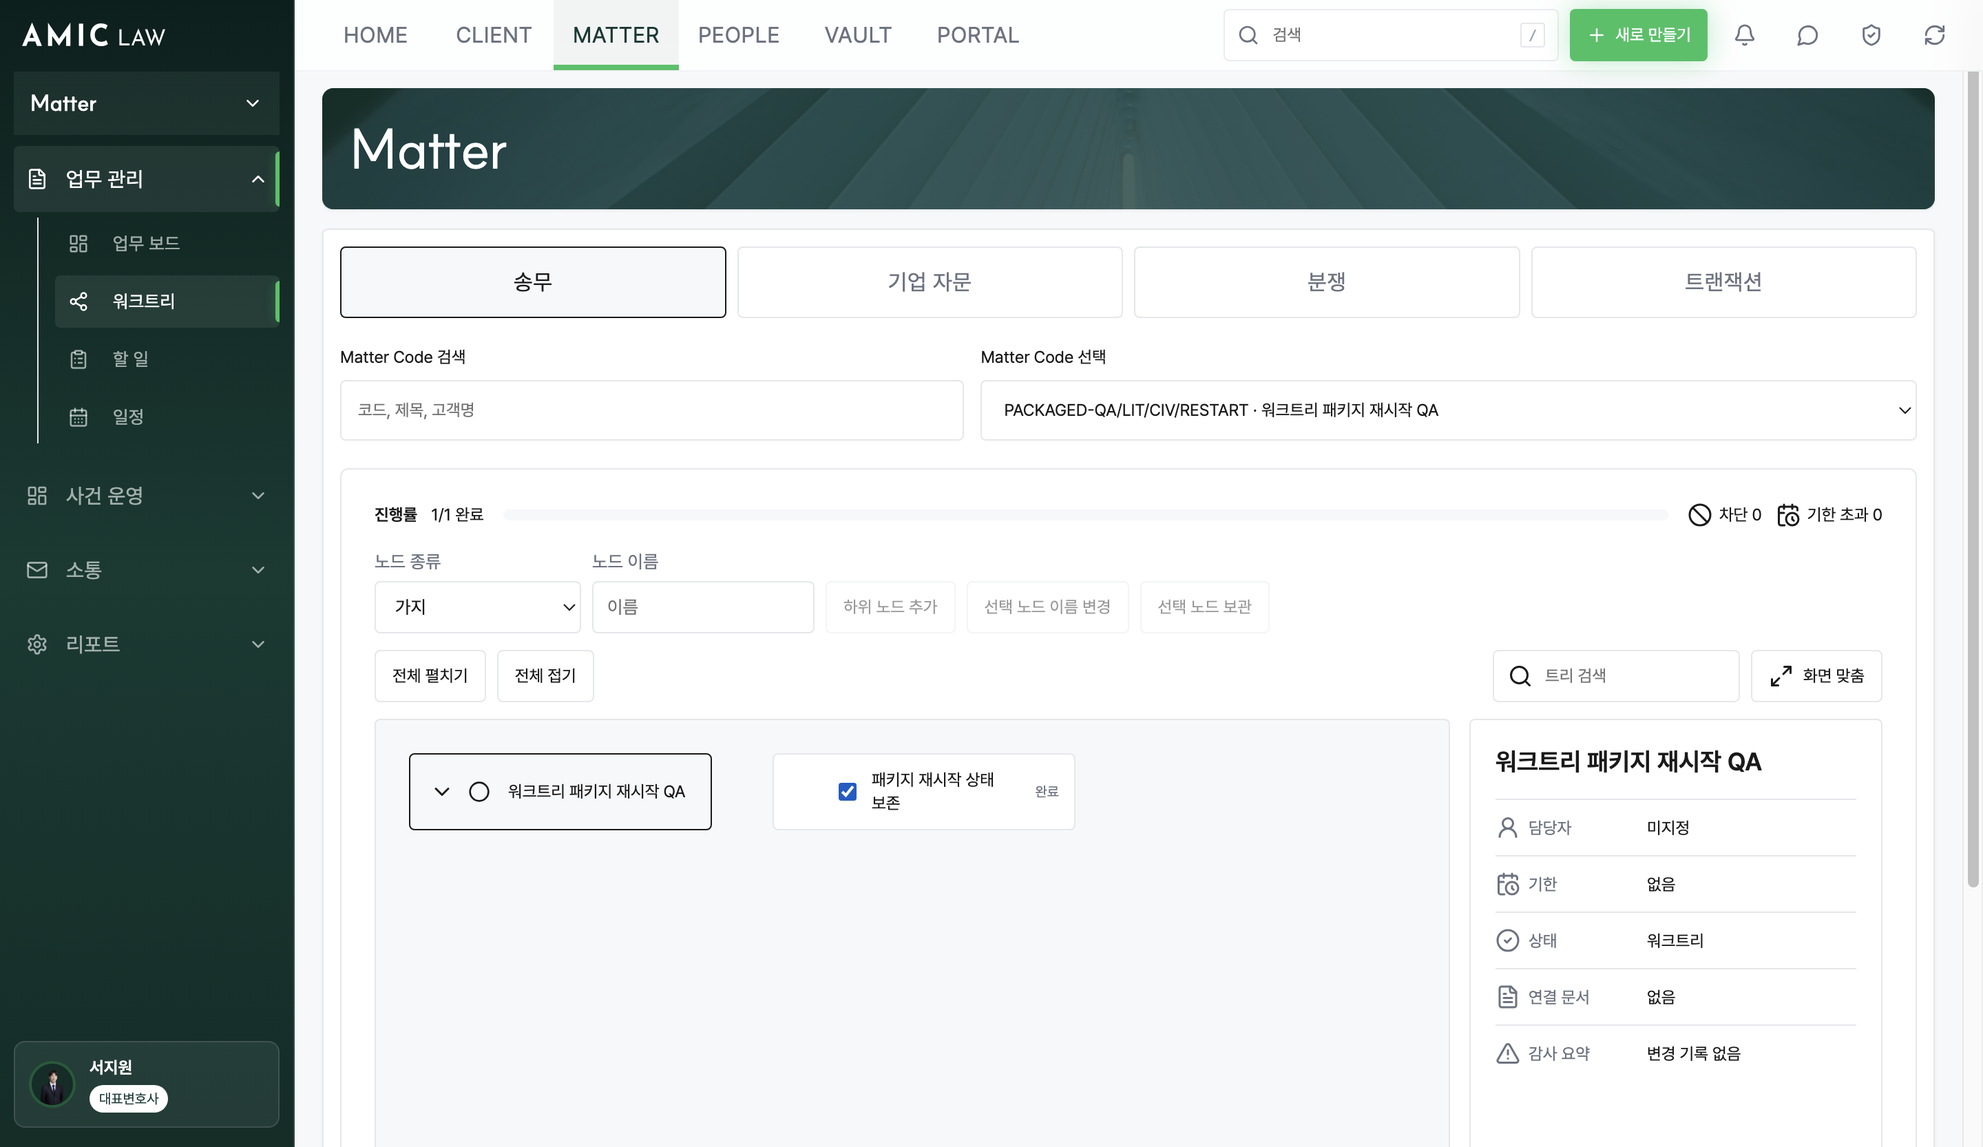
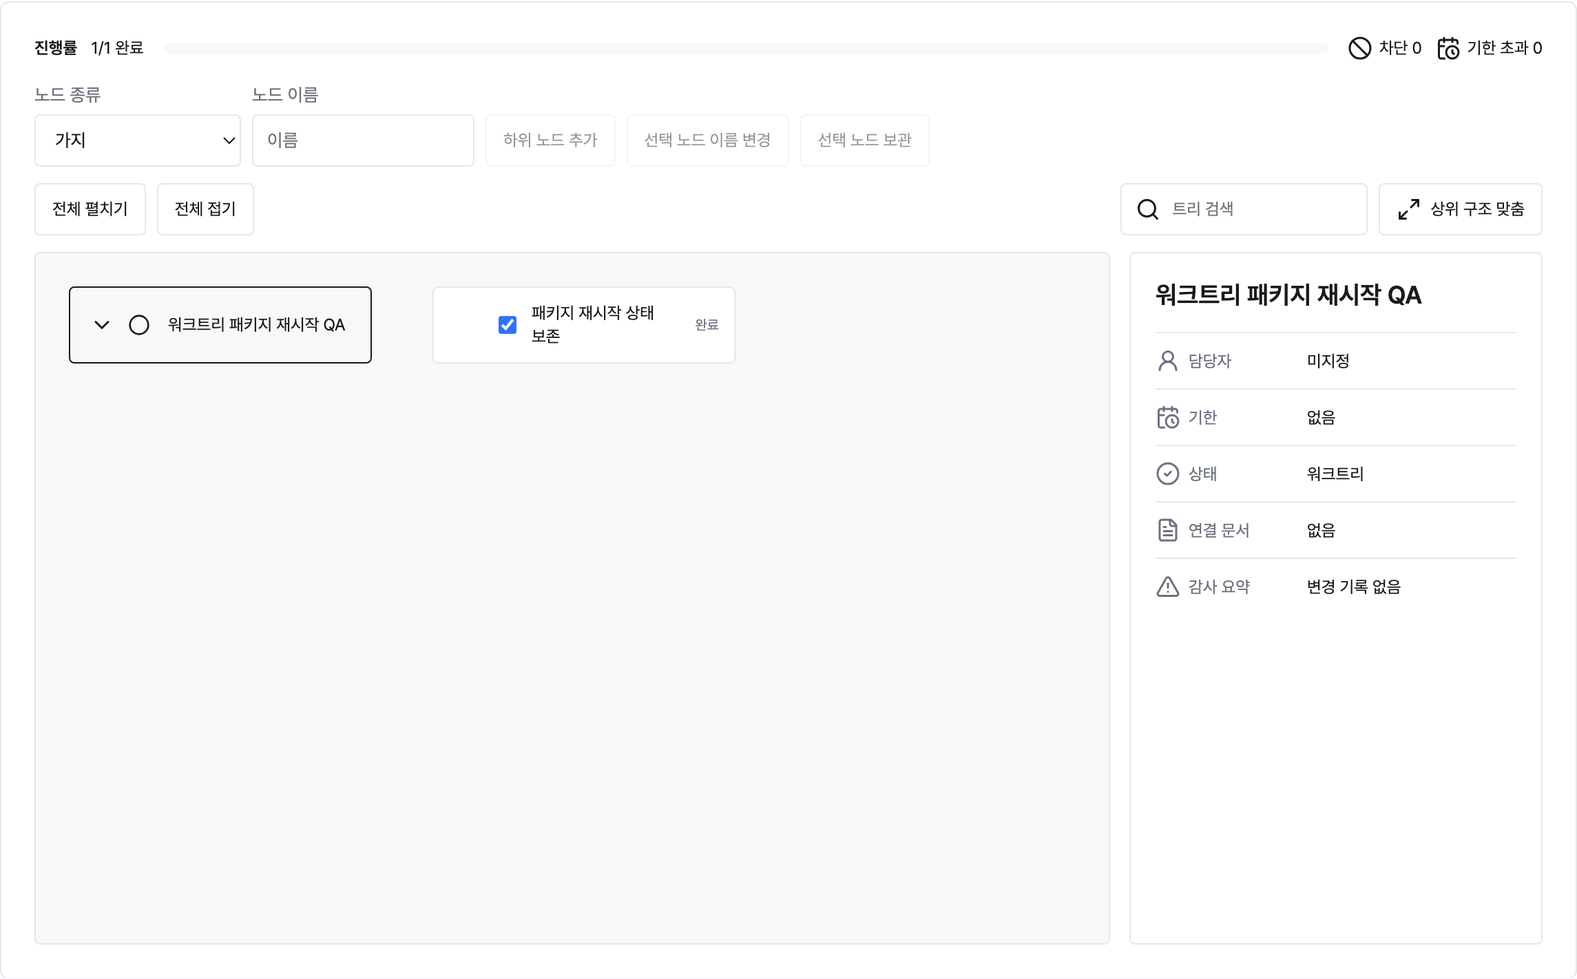
fix(worktree): enforce final runtime and UI boundaries

diff --git a/apps/web/src/components/MatterWorktreeSurface.jsx b/apps/web/src/components/MatterWorktreeSurface.jsx
@@ -16,7 +16,7 @@ import {
   reopenMatterWorktreeTask,
   unblockMatterWorktreeTask,
 } from "../data/apiClient.js";
-import { buildMatterWorktreeTree, createLatestWorktreeRequestSequence, flattenMatterWorktree, matterWorktreeExpandableIds } from "./matterWorktreeTree.js";
+import { buildMatterWorktreeTree, createLatestWorktreeRequestSequence, flattenMatterWorktree, matterWorktreeExpandableIds, nextMatterWorktreeSortOrder } from "./matterWorktreeTree.js";
 
 const PRACTICE_AREAS = Object.freeze([
   Object.freeze({ id: "litigation", label: "송무" }),
@@ -82,7 +82,7 @@ function WorktreeNode({ node, level, expandedIds, selectedId, pendingTaskId, onS
   return (
     <div className="matter-worktree-branch">
       <div
-        className={`matter-worktree-node ${selectedId === node.node_id ? "selected" : ""} ${task ? "task" : "branch"}`}
+        className={`matter-worktree-node ${selectedId === node.node_id ? "selected" : ""} ${task ? "task" : "branch"} ${node.node_type === "virtual_branch" ? "virtual" : ""}`}
         role="treeitem"
         aria-level={level}
         aria-selected={selectedId === node.node_id}
@@ -110,6 +110,7 @@ function WorktreeNode({ node, level, expandedIds, selectedId, pendingTaskId, onS
         ) : <Circle aria-hidden="true" className="matter-worktree-node-icon" />}
         <span className="matter-worktree-node-title">{node.title}</span>
         {task?.status && <small>{WORKTREE_STATUS_LABELS[task.status] ?? task.status}</small>}
+        {node.node_type === "virtual_branch" && <small>자동 분류</small>}
       </div>
       {hasChildren && expanded && (
         <div className="matter-worktree-children" role="group">
@@ -374,8 +375,9 @@ export function MatterWorktreeSurface({ matters = [], liveCtx = "allow" }) {
           node_type: nodeType,
           parent_node_id: parent?.node_id ?? null,
           title: nodeTitle.trim(),
-          sort_order: parent?.children?.length ?? tree?.children?.length ?? 0,
-          ...(nodeType === "task" ? { task_id: taskId.trim() } : {}),
+          sort_order: nextMatterWorktreeSortOrder(parent?.children ?? tree?.children ?? []),
+          status: "active",
+          task_id: nodeType === "task" ? taskId.trim() : null,
         },
       }),
     });
@@ -505,7 +507,9 @@ export function MatterWorktreeSurface({ matters = [], liveCtx = "allow" }) {
   }
 
   function fitCanvas() {
-    canvasRef.current?.scrollTo({ left: 0, top: 0, behavior: "smooth" });
+    setExpandedIds(new Set(tree ? [tree.node_id] : []));
+    if (tree?.node_id) setSelectedNodeId(tree.node_id);
+    requestAnimationFrame(() => canvasRef.current?.scrollTo({ left: 0, top: 0, behavior: "smooth" }));
   }
 
   function renderWorktreeState() {
@@ -531,7 +535,7 @@ export function MatterWorktreeSurface({ matters = [], liveCtx = "allow" }) {
             <button type="button" onClick={() => setExpandedIds(new Set(matterWorktreeExpandableIds(tree)))}>전체 펼치기</button>
             <button type="button" onClick={() => setExpandedIds(new Set(tree ? [tree.node_id] : []))}>전체 접기</button>
             <label><Search aria-hidden="true" /><span className="sr-only">트리 검색</span><input value={treeQuery} onChange={(event) => setTreeQuery(event.target.value)} onKeyDown={(event) => { if (event.key === "Enter") focusSearchResult(); }} placeholder="트리 검색" /></label>
-            <button type="button" onClick={fitCanvas}><Maximize2 aria-hidden="true" />화면 맞춤</button>
+            <button type="button" onClick={fitCanvas} title="상위 단계만 보이도록 하위 가지를 접습니다"><Maximize2 aria-hidden="true" />상위 구조 맞춤</button>
           </div>
           <div className="matter-worktree-workspace">
             <div className="matter-worktree-canvas" ref={canvasRef}>

diff --git a/apps/api/test/matter-worktree-api.test.js b/apps/api/test/matter-worktree-api.test.js
@@ -2,6 +2,7 @@ import assert from "node:assert/strict";
 import test from "node:test";
 import { createMatterRepository } from "../../../packages/matter/src/repository.js";
 import { createMatterRuntimeContext, handleMatterApiRequest } from "../src/matter-runtime-context.js";
+import { handleMatterWorktreeTemplateList } from "../src/matter-worktree-read-api.js";
 
 const tenantId = "tenant_wt_02_01";
 const matterId = "matter_wt_02_01";
@@ -26,7 +27,7 @@ function fixtures() {
     { model_type: "MatterWorktreeNode", node_id: "node_branch_wt_02_01", worktree_id: "worktree_wt_02_01", matter_id: matterId, tenant_id: tenantId, node_type: "branch", parent_node_id: null, title: "준비", sort_order: 0, status: "active", task_id: null, ...evidence },
     { model_type: "MatterWorktreeNode", node_id: "node_task_wt_02_01", worktree_id: "worktree_wt_02_01", matter_id: matterId, tenant_id: tenantId, node_type: "task", parent_node_id: "node_branch_wt_02_01", title: "연결 업무", sort_order: 0, status: "active", task_id: "task_linked_wt_02_01", ...evidence },
     { model_type: "MatterTask", task_id: "task_other_wt_02_01", matter_id: "matter_other", tenant_id: tenantId, title: "권한 밖 업무", status: "blocked", created_by: "user_other", ...evidence },
-    { model_type: "MatterWorktreeTemplate", template_id: "template-approved", tenant_id: tenantId, practice_area: "litigation", name: "송무 준비", status: "approved", version: 2, approval_ref: "approval", approved_by: "approver", approved_at: "2026-07-11T12:00:00.000Z", created_by: "author", created_at: "2026-07-11T12:00:00.000Z", updated_by: "approver", updated_at: "2026-07-11T12:00:00.000Z" },
+    { model_type: "MatterWorktreeTemplate", template_id: "template-approved", tenant_id: tenantId, practice_area: "litigation", name: "송무 준비", status: "approved", version: 2, approval_ref: "approval", approved_by: "jwsuh@amic.kr", approved_at: "2026-07-11T12:00:00.000Z", created_by: "author", created_at: "2026-07-11T12:00:00.000Z", updated_by: "jwsuh@amic.kr", updated_at: "2026-07-11T12:00:00.000Z" },
     { model_type: "MatterWorktreeTemplate", template_id: "template-draft", tenant_id: tenantId, practice_area: "litigation", name: "초안", status: "draft", version: 1, approval_ref: null, approved_by: null, approved_at: null, created_by: "author", created_at: "2026-07-11T12:00:00.000Z", updated_by: "author", updated_at: "2026-07-11T12:00:00.000Z" },
   ];
 }
@@ -59,6 +60,21 @@ test("Worktree template picker lists only approved templates for the Matter prac
 
   assert.equal(response.status, 200);
   assert.deepEqual(response.body.items, [{ template_id: "template-approved", name: "송무 준비", version: 2, practice_area: "litigation" }]);
+});
+
+test("Worktree template picker hides legacy approved records signed by another approver", () => {
+  const base = runtime().repository;
+  const repository = {
+    get: (ref) => base.get(ref),
+    list: (request) => request.model_type === "MatterWorktreeTemplate"
+      ? [{ ...fixtures().find(({ template_id }) => template_id === "template-approved"), approved_by: "other@example.com" }]
+      : base.list(request),
+  };
+
+  const response = handleMatterWorktreeTemplateList({ matterId, query, context: context(), requestId: "req-template-list-invalid-owner", runtime: { repository } });
+
+  assert.equal(response.status, 200);
+  assert.deepEqual(response.body.items, []);
 });
 
 test("WT-02-01 hides the Worktree and all counts from a non-member", async () => {

diff --git a/apps/api/test/matter-worktree-node-api.test.js b/apps/api/test/matter-worktree-node-api.test.js
@@ -70,6 +70,19 @@ test("WT-02-04 rejects archiving a branch with active descendants and retains Ma
   assert.equal(matterRuntime.repository.get({ tenant_id: tenantId, model_type: "MatterTask", id: "task_wt_02_03" }).status, "todo");
 });
 
+test("WT-02-04 permits bottom-up archive after every descendant is archived", async () => {
+  const matterRuntime = runtime();
+  await handleMatterApiRequest({ pathname: `/api/matters/${matterId}/worktree/nodes`, method: "POST", body: body("bottom-up-parent", { node_id: "parent", node_type: "branch", parent_node_id: null, title: "상위", sort_order: 0, status: "active", task_id: null }), context, requestId: "parent", runtime: matterRuntime });
+  await handleMatterApiRequest({ pathname: `/api/matters/${matterId}/worktree/nodes`, method: "POST", body: body("bottom-up-child", { node_id: "child", node_type: "branch", parent_node_id: "parent", title: "하위", sort_order: 0, status: "active", task_id: null }, { expected_version: 2 }), context, requestId: "child", runtime: matterRuntime });
+  const child = await handleMatterApiRequest({ pathname: `/api/matters/${matterId}/worktree/nodes/child`, method: "DELETE", body: body("archive-child", {}, { expected_version: 3 }), context, requestId: "archive-child", runtime: matterRuntime });
+
+  const parent = await handleMatterApiRequest({ pathname: `/api/matters/${matterId}/worktree/nodes/parent`, method: "DELETE", body: body("archive-parent-after-child", {}, { expected_version: 4 }), context, requestId: "archive-parent", runtime: matterRuntime });
+
+  assert.equal(child.status, 200);
+  assert.equal(parent.status, 200);
+  assert.equal(matterRuntime.repository.get({ tenant_id: tenantId, model_type: "MatterWorktreeNode", id: "parent" }).status, "archived");
+});
+
 test("WT-02-07 returns 409 and current version for stale node writes", async () => {
   const matterRuntime = runtime();
   await handleMatterApiRequest({ pathname: `/api/matters/${matterId}/worktree/nodes`, method: "POST", body: body("stale-create", { node_id: "branch", node_type: "branch", parent_node_id: null, title: "원본", sort_order: 0, status: "active", task_id: null }), context, requestId: "create", runtime: matterRuntime });

diff --git a/apps/web/src/styles.css b/apps/web/src/styles.css
@@ -2844,6 +2844,13 @@ kbd {
   font-weight: 400;
 }
 
+.matter-worktree-tools label:focus-within {
+  border-color: var(--am-accent);
+  outline: 3px solid color-mix(in srgb, var(--am-accent) 45%, transparent);
+  outline-offset: 2px;
+  box-shadow: inset 0 0 0 1px var(--am-accent);
+}
+
 .matter-worktree-workspace {
   display: grid;
   grid-template-columns: minmax(0, 1fr) minmax(260px, 300px);
@@ -2894,6 +2901,12 @@ kbd {
 .matter-worktree-node.selected {
   border-color: var(--am-accent);
   background: var(--am-surface-subtle);
+}
+
+.matter-worktree-node.virtual {
+  border-style: dashed;
+  border-color: var(--am-border-strong);
+  background: color-mix(in srgb, var(--am-surface-subtle) 72%, var(--am-accent) 8%);
 }
 
 .matter-worktree-node:focus-visible {
@@ -3136,6 +3149,19 @@ kbd {
 }
 
 @media (max-width: 480px) {
+  .top-axis-nav {
+    width: 100%;
+    overflow: visible;
+  }
+
+  .top-axis-item {
+    flex: 1 1 0;
+    min-width: 0;
+    padding: 0 3px;
+    font-size: 12px;
+    letter-spacing: 0;
+  }
+
   .matter-worktree-children {
     margin-left: 8px;
     padding-left: 8px;
@@ -7686,7 +7712,7 @@ html[data-theme="dark"] .public-preview {
   }
 }
 
-@media (max-width: 760px) {
+@media (max-width: 820px) {
   body {
     overflow: auto;
   }
@@ -13904,7 +13930,7 @@ table tbody *,
   }
 }
 
-@media (max-width: 760px) {
+@media (max-width: 820px) {
   .sidebar-group {
     min-width: max-content;
   }
@@ -13941,5 +13967,37 @@ table tbody *,
   html[data-skin="forest"] .page-canvas {
     padding-top: 0;
     overflow: visible;
+  }
+
+  html[data-skin="forest"] .top-axis-nav {
+    width: 100%;
+    overflow: visible;
+  }
+
+  html[data-skin="forest"] .top-axis-item {
+    flex: 1 1 0;
+    min-width: 0;
+    padding: 0 6px;
+    font-size: 14px;
+  }
+}
+
+@media (max-width: 480px) {
+  html[data-skin="forest"] .top-axis-item {
+    padding: 0 3px;
+    font-size: 12px;
+    letter-spacing: 0;
+  }
+
+  .sidebar-subnav {
+    display: grid;
+    grid-template-columns: repeat(4, minmax(0, 1fr));
+    width: 100%;
+  }
+
+  .sidebar-child {
+    min-width: 0;
+    padding-inline: 4px;
+    font-size: 12px;
   }
 }

diff --git a/apps/api/test/matter-worktree-create-api.test.js b/apps/api/test/matter-worktree-create-api.test.js
@@ -21,7 +21,7 @@ function records({ templateStatus } = {}) {
   if (!templateStatus) return base;
   const approved = templateStatus === "approved";
   return [...base,
-    { model_type: "MatterWorktreeTemplate", template_id: "template_wt_02_02", tenant_id: tenantId, practice_area: "litigation", name: "[QA] 송무 템플릿", status: templateStatus, version: 1, approval_ref: approved ? "approval_wt_02_02" : null, approved_by: approved ? "qa_approver" : null, approved_at: approved ? occurredAt : null, created_by: "qa_author", created_at: occurredAt, updated_by: "qa_author", updated_at: occurredAt },
+    { model_type: "MatterWorktreeTemplate", template_id: "template_wt_02_02", tenant_id: tenantId, practice_area: "litigation", name: "[QA] 송무 템플릿", status: templateStatus, version: 1, approval_ref: approved ? "approval_wt_02_02" : null, approved_by: approved ? "jwsuh@amic.kr" : null, approved_at: approved ? occurredAt : null, created_by: "qa_author", created_at: occurredAt, updated_by: "qa_author", updated_at: occurredAt },
     { model_type: "MatterWorktreeTemplateNode", template_node_id: "template_branch_wt_02_02", template_id: "template_wt_02_02", tenant_id: tenantId, node_type: "branch", parent_template_node_id: null, title: "준비", sort_order: 0, status: "active" },
     { model_type: "MatterWorktreeTemplateNode", template_node_id: "template_task_wt_02_02", template_id: "template_wt_02_02", tenant_id: tenantId, node_type: "task", parent_template_node_id: "template_branch_wt_02_02", title: "기록 검토", sort_order: 0, status: "active" },
   ];

diff --git a/packages/matter/test/worktree-template-snapshot.test.js b/packages/matter/test/worktree-template-snapshot.test.js
@@ -15,7 +15,7 @@ function template(status = "approved") {
     status,
     version: 1,
     approval_ref: approved ? "approval_qa_wt_01_07" : null,
-    approved_by: approved ? "user_qa_approver" : null,
+    approved_by: approved ? "jwsuh@amic.kr" : null,
     approved_at: approved ? timestamp : null,
     created_by: "user_wt_01_07",
     created_at: timestamp,
@@ -112,6 +112,18 @@ test("WT-01-07 rejects draft templates without creating Worktree records", async
   assert.throws(applyDraft, (error) => error.code === "WORKTREE_TEMPLATE_NOT_APPROVED");
   assert.equal(repository.list({ tenant_id: "tenant_wt_01_07", model_type: "MatterWorktree" }).length, 0);
   assert.equal(repository.list({ tenant_id: "tenant_wt_01_07", model_type: "MatterTask" }).length, 0);
+});
+
+test("WT-01-07 rejects approved templates signed by a different approver", async () => {
+  const { applyMatterWorktreeTemplate } = await import("../src/worktree-template-snapshot.js");
+  const repository = {
+    get: () => ({ ...template(), approved_by: "other@example.com" }),
+    list: () => [],
+  };
+
+  const applyMismatchedApproval = () => applyMatterWorktreeTemplate(repository, command());
+
+  assert.throws(applyMismatchedApproval, (error) => error.code === "WORKTREE_TEMPLATE_NOT_APPROVED");
 });
 
 test("WT-01-07 rejects cross-tenant template application without existence disclosure", async () => {

diff --git a/apps/api/src/matter-worktree-read-api.js b/apps/api/src/matter-worktree-read-api.js
@@ -1,6 +1,7 @@
 import { projectMatterWorktree } from "../../../packages/matter/src/worktree-projection.js";
 import { authorizeMatterWorktreeAccess, WORKTREE_READ_ROLES } from "./matter-worktree-authorization.js";
 import { classifyMatterPracticeArea } from "../../../packages/matter/src/practice-area.js";
+import { hasMatterWorktreeTemplateApproval } from "../../../packages/matter/src/worktree-template-model.js";
 
 function blocked(status, requestId, code, auditHintRef, uiState) {
   return {
@@ -66,7 +67,7 @@ export function handleMatterWorktreeTemplateList({ matterId, query = {}, context
   const practiceArea = classifyMatterPracticeArea(authorization.matter);
   const items = runtime.repository
     .list({ tenant_id: query.tenant_id, model_type: "MatterWorktreeTemplate" })
-    .filter((template) => template.status === "approved" && template.practice_area === practiceArea)
+    .filter((template) => template.status === "approved" && hasMatterWorktreeTemplateApproval(template) && template.practice_area === practiceArea)
     .map(({ template_id, name, version, practice_area }) => ({ template_id, name, version, practice_area }));
   return { status: 200, body: { request_id: requestId, outcome: "passed", items, safe_error_codes: [], audit_hint_ref: query.audit_hint_ref, count_leak_prevented: true, production_ready_claim: false } };
 }

diff --git a/apps/api/src/matter-worktree-write-api.js b/apps/api/src/matter-worktree-write-api.js
@@ -147,8 +147,9 @@ export function handleMatterWorktreeNodeArchive({ matterId, nodeId, body, contex
     const worktree = activeWorktree(runtime.repository, body.tenant_id, matterId);
     if (!worktree) throw new Error("active Worktree not found");
     const nodes = runtime.repository.list({ tenant_id: body.tenant_id, model_type: "MatterWorktreeNode", matter_id: matterId }).filter((node) => node.worktree_id === worktree.worktree_id);
-    if (!nodes.some((node) => node.node_id === nodeId)) throw new Error("Worktree node not found");
-    const archivedNodeIds = subtreeIds(nodes, nodeId);
+    const current = nodes.find((node) => node.node_id === nodeId);
+    if (!current || current.status !== "active") throw new Error("Active Worktree node not found");
+    const archivedNodeIds = subtreeIds(nodes.filter(({ status }) => status === "active"), nodeId);
     if (archivedNodeIds.length > 1) throw new Error("Active descendants must be archived before their parent");
     const input = command(body, matterId, requestId, { expected_version: body.expected_version ?? null });
     const result = executeWorktreeMutation(runtime.repository, { ...input, operation: "matter.worktree.node.archive", object_type: "MatterWorktreeNode", object_id: nodeId }, (transaction) => {

diff --git a/packages/matter/src/worktree-template-model.js b/packages/matter/src/worktree-template-model.js
@@ -1,13 +1,21 @@
 import { MATTER_WORKTREE_NODE_TYPES } from "./registry.js";
 import { createWorktreeBaseRecord } from "./worktree-model.js";
 
+export const MATTER_WORKTREE_TEMPLATE_APPROVER_ID = "jwsuh@amic.kr";
+
+export function hasMatterWorktreeTemplateApproval(input) {
+  return Boolean(input.approval_ref)
+    && input.approved_by === MATTER_WORKTREE_TEMPLATE_APPROVER_ID
+    && Boolean(input.approved_at);
+}
+
 export function createMatterWorktreeTemplate(input) {
   const base = createWorktreeBaseRecord("MatterWorktreeTemplate", input);
   if (!Number.isInteger(input.version) || input.version < 1) {
     throw new TypeError("MatterWorktreeTemplate version must be a positive integer");
   }
-  if (input.status === "approved" && ![input.approval_ref, input.approved_by, input.approved_at].every(Boolean)) {
-    throw new TypeError("MatterWorktreeTemplate approved template requires approval_ref, approved_by, approved_at");
+  if (input.status === "approved" && !hasMatterWorktreeTemplateApproval(input)) {
+    throw new TypeError(`MatterWorktreeTemplate approved template requires approval_ref, approved_by, approved_at; approved_by must match assigned approver ${MATTER_WORKTREE_TEMPLATE_APPROVER_ID}`);
   }
   return Object.freeze({
     ...base,

diff --git a/packages/matter/test/worktree-template-model.test.js b/packages/matter/test/worktree-template-model.test.js
@@ -69,13 +69,27 @@ test("WT-01-03 requires complete approval evidence for approved templates", asyn
     ...draftInput,
     status: "approved",
     approval_ref: "approval_qa_wt_01_03",
-    approved_by: "user_qa_template_approver",
+    approved_by: "jwsuh@amic.kr",
     approved_at: "2026-07-11T13:00:00.000Z",
   });
 
   // Then
   assert.throws(createWithoutEvidence, /approved template requires approval_ref, approved_by, approved_at/);
   assert.equal(approved.status, "approved");
+});
+
+test("approved Worktree templates reject an approver other than the assigned owner", async () => {
+  const { createMatterCoreRecord } = await import("../src/model.js");
+
+  const createWithWrongApprover = () => createMatterCoreRecord("MatterWorktreeTemplate", {
+    ...draftInput,
+    status: "approved",
+    approval_ref: "approval_qa_wt_01_03",
+    approved_by: "other@example.com",
+    approved_at: "2026-07-11T13:00:00.000Z",
+  });
+
+  assert.throws(createWithWrongApprover, /approved_by must match assigned approver jwsuh@amic\.kr/);
 });
 
 test("WT-01-03 rejects root template nodes and missing nullable keys", async () => {

diff --git a/packages/matter/test/worktree-permission-transition-contract.test.js b/packages/matter/test/worktree-permission-transition-contract.test.js
@@ -29,6 +29,15 @@ test("WT-00-03 fixes allow and deny outcomes for every Matter role and worktree 
   assert.deepEqual(contract.authorization_resolution.generic_matter_write_never_grants, ["template:manage", "template:approve"]);
 });
 
+test("WT-00-03 exhaustively records unblock permission for every Matter role", async () => {
+  const [contract, fixture] = await loadContractAndFixture();
+  const unblockCases = fixture.permission_cases.filter(({ action }) => action === "task:unblock");
+
+  assert.equal(contract.actions.includes("task:unblock"), true);
+  assert.equal(unblockCases.length, contract.roles.length);
+  assert.deepEqual(unblockCases.map(({ role, expected }) => [role, expected]), contract.roles.map((role) => [role, contract.role_permissions[role]["task:unblock"]]));
+});
+
 test("WT-00-03 requires active same-tenant Matter membership before any worktree access", async () => {
   // Given
   const contract = await readJson(contractUrl);

diff --git a/packages/matter/src/worktree-template-snapshot.js b/packages/matter/src/worktree-template-snapshot.js
@@ -1,6 +1,7 @@
 import { createActiveMatterWorktree } from "./worktree-concurrency.js";
 import { executeWorktreeMutation } from "./worktree-mutation.js";
 import { validateWorktreeStructure } from "./worktree-structure.js";
+import { hasMatterWorktreeTemplateApproval } from "./worktree-template-model.js";
 
 export class MatterWorktreeTemplateError extends Error {
   constructor(code, message) {
@@ -58,7 +59,7 @@ export function applyMatterWorktreeTemplate(repository, command) {
   if (!template) {
     throw new MatterWorktreeTemplateError("WORKTREE_TEMPLATE_NOT_FOUND", "Worktree template not found");
   }
-  if (template.status !== "approved") {
+  if (template.status !== "approved" || !hasMatterWorktreeTemplateApproval(template)) {
     throw new MatterWorktreeTemplateError("WORKTREE_TEMPLATE_NOT_APPROVED", "Worktree template is not approved");
   }
   const templateNodes = repository.list({
